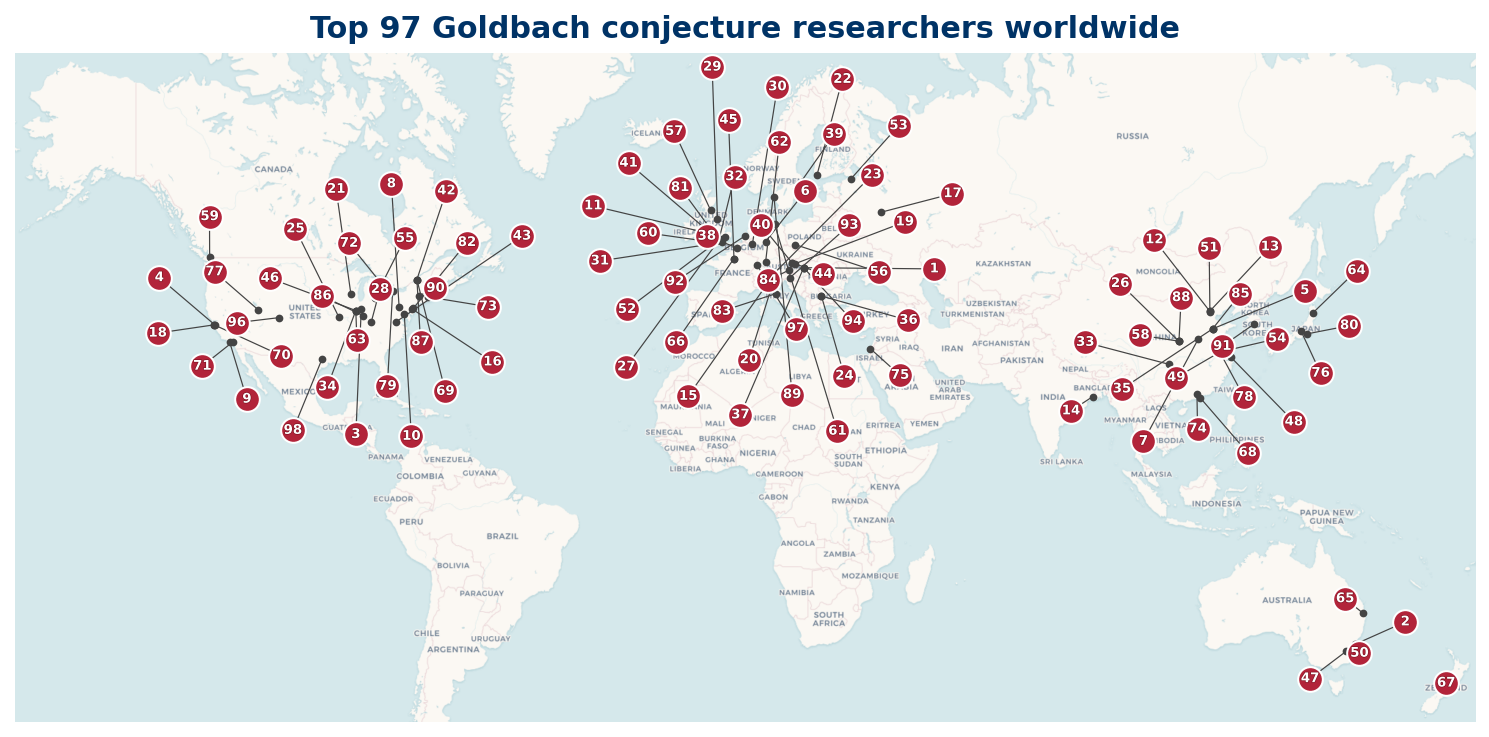
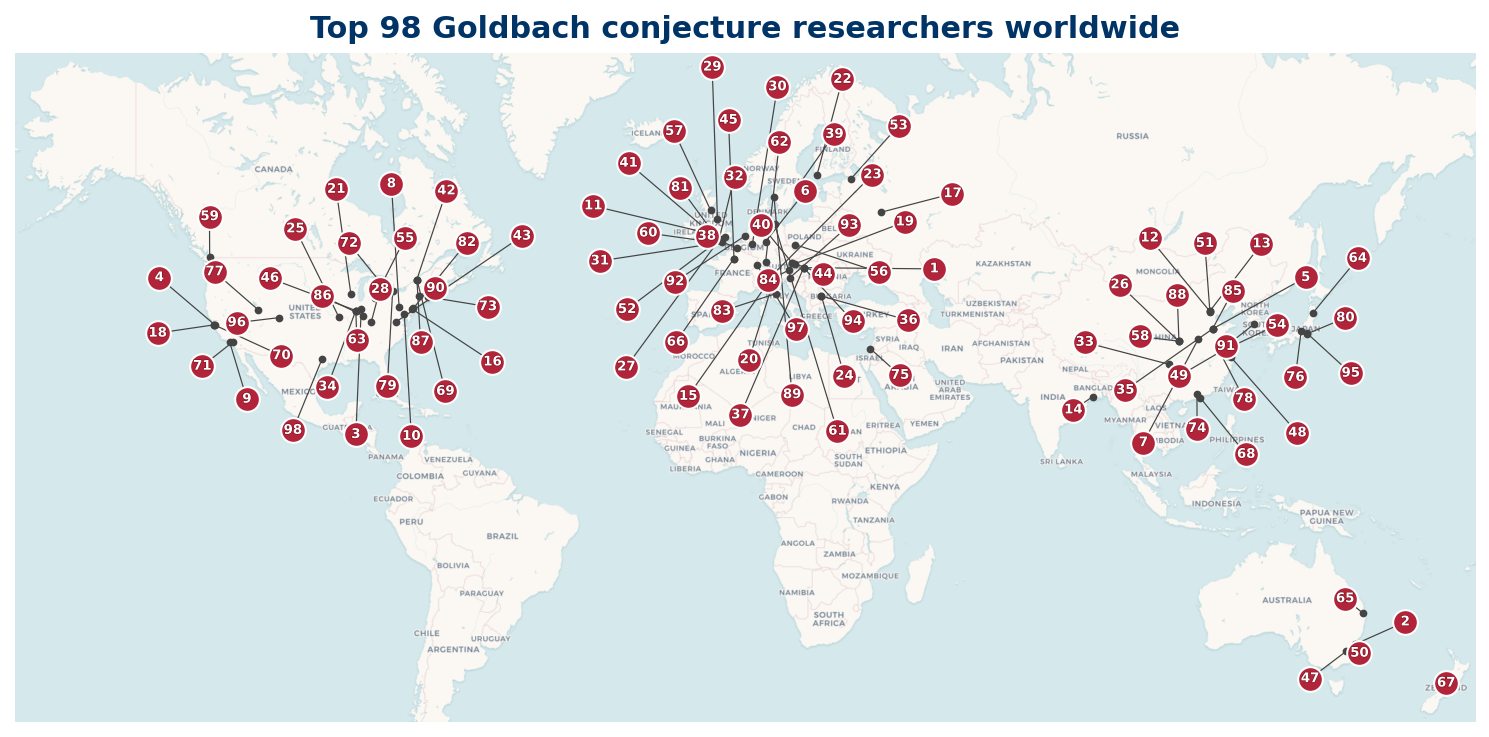
Deploy goldbach site (2026-06-20) - 184 profiles, 0 orphans pruned

diff --git a/_site/top100.html b/_site/top100.html
@@ -160,7 +160,7 @@
 <tr><td>92</td><td><a href="people/h-j-j-te-riele.html">H. J. J. te Riele</a></td><td>Centrum Wiskunde &amp; Informatica</td><td>NL</td><td data-order="50">[50]</td><td data-order="121">[121]</td><td data-order="64">64</td><td data-order="-1">-</td><td>zb_only</td><td data-order="0">-</td><td data-order="0">-</td></tr>
 <tr><td>93</td><td><a href="people/antal-balog.html">Antal Balog</a></td><td>Baltazar Zaprešić University of Applied Sciences</td><td>HR</td><td data-order="50">[50]</td><td data-order="121">[121]</td><td data-order="65">65</td><td data-order="18">18</td><td>zb_only</td><td>1985</td><td>2013</td></tr>
 <tr><td>94</td><td><a href="people/imre-z-ruzsa.html">Imre Z. Ruzsa</a></td><td>Alfréd Rényi Institute of Mathematics</td><td>HU</td><td data-order="140">140</td><td data-order="116">[116]</td><td data-order="45">45</td><td data-order="33">33</td><td>arx+zb</td><td>2003</td><td>2026</td></tr>
-<tr><td>95</td><td><a href="people/tikao-tatuzawa.html">Tikao Tatuzawa</a></td><td>-</td><td>JP</td><td data-order="50">[50]</td><td data-order="121">[121]</td><td data-order="67">67</td><td data-order="-1">-</td><td>zb_only</td><td data-order="0">-</td><td data-order="0">-</td></tr>
+<tr><td>95</td><td><a href="people/tikao-tatuzawa.html">Tikao Tatuzawa</a></td><td>Saitama University</td><td>JP</td><td data-order="50">[50]</td><td data-order="121">[121]</td><td data-order="67">67</td><td data-order="-1">-</td><td>zb_only</td><td data-order="0">-</td><td data-order="0">-</td></tr>
 <tr><td>96</td><td><a href="people/alexei-kourbatov.html">Alexei Kourbatov</a></td><td>Allscripts (United States)</td><td>US</td><td data-order="67">67</td><td data-order="110">[110]</td><td data-order="56">[56]</td><td data-order="4">4</td><td>arxiv_only</td><td>2014</td><td>2015</td></tr>
 <tr><td>97</td><td><a href="people/dieter-wolke.html">Dieter Wolke</a></td><td>University of Freiburg</td><td>DE</td><td data-order="50">[50]</td><td data-order="121">[121]</td><td data-order="68">68</td><td data-order="-1">-</td><td>zb_only</td><td data-order="0">-</td><td data-order="0">-</td></tr>
 <tr><td>98</td><td><a href="people/p-f-kelly.html">P. F. Kelly</a></td><td>Texas A&amp;M University</td><td>US</td><td data-order="68">68</td><td data-order="110">[110]</td><td data-order="56">[56]</td><td data-order="-1">-</td><td>arxiv_only</td><td>2001</td><td>2001</td></tr>

diff --git a/_site/regions/asia.html b/_site/regions/asia.html
@@ -54,7 +54,7 @@
 <div class="figure-page" style="border:1px solid #ddd">
 <img src="../img/13_top100_asia.png" alt="Map of Asia and the Pacific Top 100 researchers">
 </div>
-<p class="muted">29 researchers are based in Asia and the Pacific; 27 researchers mapped, 2 researchers location not available (institution geocode pending).</p>
+<p class="muted">29 researchers are based in Asia and the Pacific; 28 researchers mapped, 1 researcher location not available (institution geocode pending).</p>
 <h2>Listing</h2>
 <table id="rtbl" class="display compact stripe hover" style="width:100%">
 <thead><tr><th>Rank</th><th>Name</th><th>Institution</th><th>Country</th></tr></thead>
@@ -86,7 +86,7 @@
 <tr><td>85</td><td><a href="../people/xiumin-ren.html">Xiumin Ren</a></td><td>Shandong University</td><td>CN</td></tr>
 <tr><td>88</td><td><a href="../people/ping-xi.html">Ping Xi</a></td><td>Xi&#x27;an Jiaotong University</td><td>CN</td></tr>
 <tr><td>91</td><td><a href="../people/jiseong-kim.html">Jiseong Kim</a></td><td>Sogang University</td><td>KR</td></tr>
-<tr><td>95</td><td><a href="../people/tikao-tatuzawa.html">Tikao Tatuzawa</a></td><td>-</td><td>JP</td></tr>
+<tr><td>95</td><td><a href="../people/tikao-tatuzawa.html">Tikao Tatuzawa</a></td><td>Saitama University</td><td>JP</td></tr>
 <tr><td>100</td><td><a href="../people/weiping-li.html">Weiping Li</a></td><td>-</td><td>CN</td></tr>
 </tbody>
 </table>

diff --git a/_site/people/tikao-tatuzawa.html b/_site/people/tikao-tatuzawa.html
@@ -53,13 +53,13 @@
 <main>
 <p class="subtitle"><a href="../top100.html">&larr; Back to the Top 100</a></p>
 <h1>Tikao Tatuzawa (#95)</h1>
-<p class="subtitle">- (JP)</p>
+<p class="subtitle">Saitama University (JP)</p>
 
 <table class="profile-table">
 <tbody>
 <tr><td>Homepage</td><td>Not available</td></tr>
 <tr><td>Google Scholar</td><td><a href="https://scholar.google.com/scholar?q=Tikao+Tatuzawa+number+theory">Search results</a></td></tr>
-<tr><td>Institution</td><td>-</td></tr>
+<tr><td>Institution</td><td>Saitama University</td></tr>
 <tr><td>Country</td><td>JP</td></tr>
 <tr><td>Active years</td><td>Not available</td></tr>
 <tr><td>h-index</td><td>-</td></tr>
